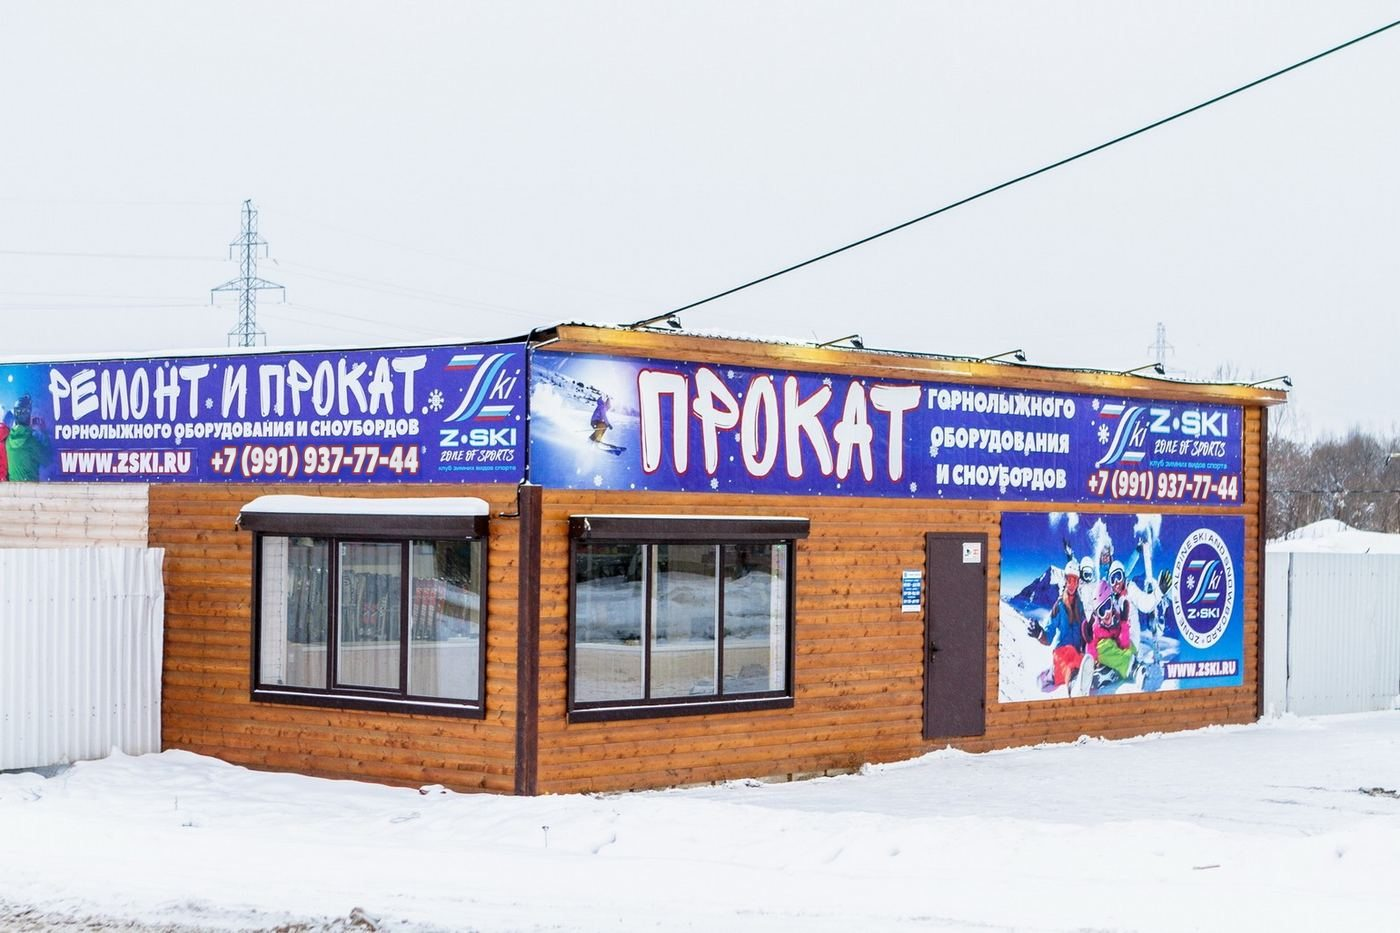
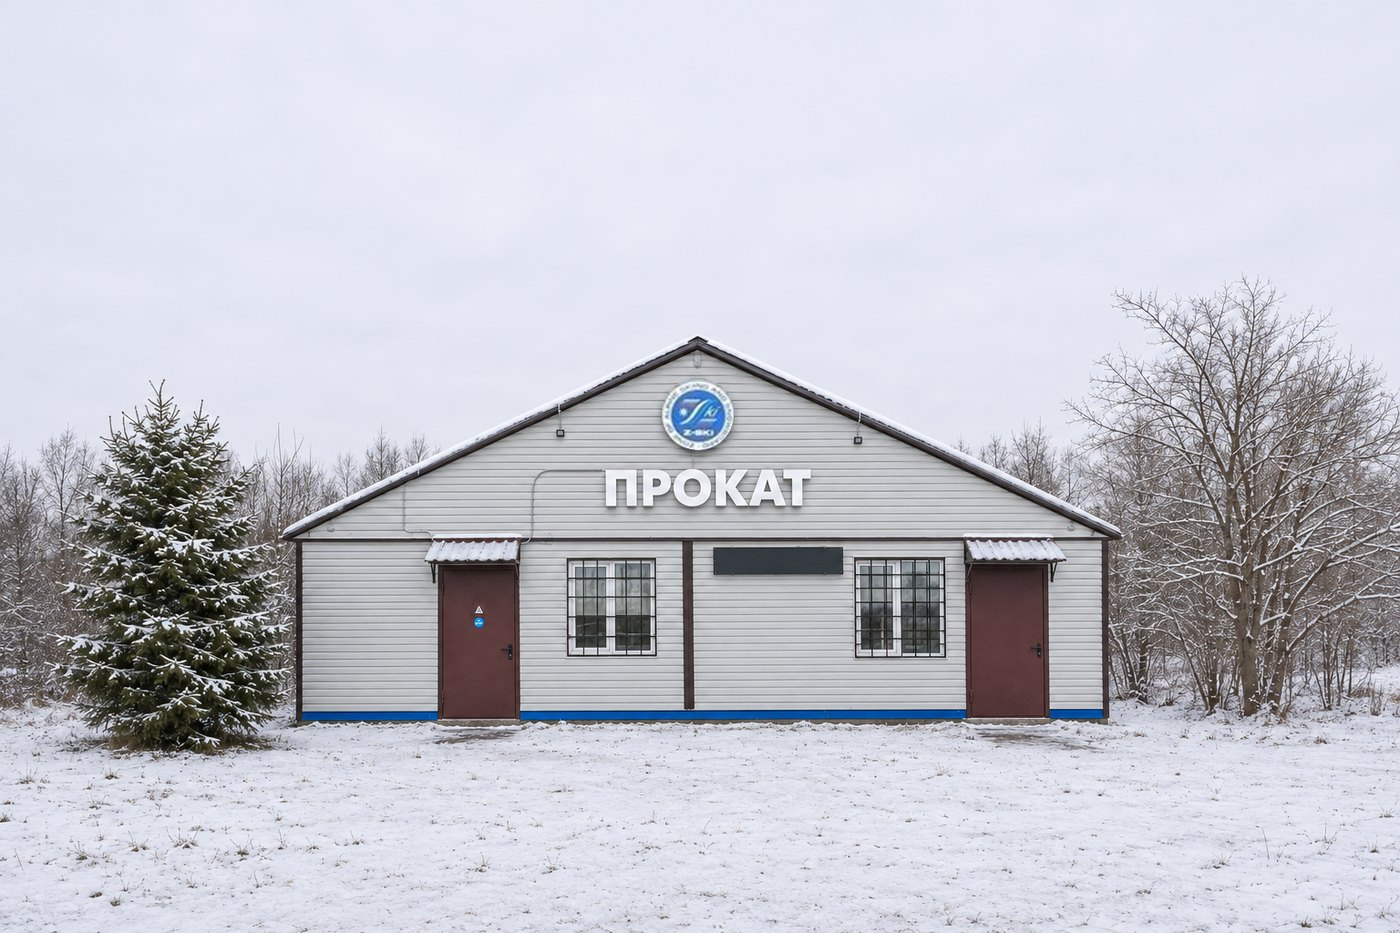
fix: Replace old rental facade with the new winter photo

diff --git a/index.html b/index.html
@@ -609,7 +609,7 @@ img[data-fallback].ok,img[data-fallback].failed{opacity:1}
   "url": "https://zski.ru/",
   "telephone": "+79919377744",
   "email": "z_ski@mail.ru",
-  "image": "https://zski.ru/img/photos/shop-exterior.jpg",
+  "image": "https://daydrneg1974-star.github.io/zski-site/img/photos/shop-exterior.jpg?v=202611171328",
   "priceRange": "Аксессуары от 500 ₽/день, комплекты от 2000 ₽/день",
   "address": {"@type": "PostalAddress","addressRegion": "Московская область","addressCountry": "RU"},
   "description": "Московская область, Дмитровский муниципальный округ, рядом с СНТ Каменка.",
@@ -630,7 +630,7 @@ window.__zskiIntro={show:show,restore:show&&type==="back_forward"?s.p:null};
 /* Скрипт интро не загрузился или упал — сразу показываем сайт */
 window.__zskiIntroFail=function(){var h=document.querySelector(".intro-host");if(h)h.hidden=true;d.classList.remove("intro-open");dispatchEvent(new Event("zski:intro-closed"))};
 var l=document.createElement("link");l.rel="preload";l.as="image";l.type="image/webp";l.href=show?(matchMedia("(orientation: portrait)").matches?"img/photos/intro-poster-portrait.webp":"img/photos/intro-poster.webp"):"img/photos/hero-freeride.webp";l.setAttribute("fetchpriority","high");document.head.appendChild(l);
-if(show){var j=document.createElement("link");j.rel="preload";j.as="script";j.href="js/intro.js?v=202611170601";document.head.appendChild(j)}
+if(show){var j=document.createElement("link");j.rel="preload";j.as="script";j.href="js/intro.js?v=202611171328";document.head.appendChild(j)}
 if(show){d.classList.add("intro-open");setTimeout(function(){if(!(window.__zskiIntro&&window.__zskiIntro.booted)){d.classList.remove("intro-open");dispatchEvent(new Event("zski:intro-closed"))}},8000)}})();
 </script>
 <style>html.intro-open,html.intro-open body{background:#1a2230;overflow:hidden}html.intro-open body>:not(.intro-host){display:none!important}.intro-host{position:fixed;inset:0;z-index:5000;transition:opacity .4s ease}.intro-host[hidden]{display:none}html.intro-open .intro-host[hidden]{display:block}.intro-host.closing{opacity:0;pointer-events:none}</style>
@@ -801,14 +801,14 @@ body.pov .lens,.stage.pov .lens{display:block}
     <img id="poster" src="img/photos/intro-poster.webp" alt="" fetchpriority="high">
   </picture>
   <video id="v" muted playsinline preload="none" aria-label="Видео: горнолыжник спускается по склону">
-    <source media="(orientation: portrait)" src="video/portrait/descent.webm?v=202611170601" type='video/webm; codecs="vp9"'>
-    <source media="(orientation: portrait)" src="video/portrait/descent.mp4?v=202611170601" type="video/mp4">
-    <source src="video/descent.webm?v=202611170601" type='video/webm; codecs="vp9"'>
-    <source src="video/descent.mp4?v=202611170601" type="video/mp4">
+    <source media="(orientation: portrait)" src="video/portrait/descent.webm?v=202611171328" type='video/webm; codecs="vp9"'>
+    <source media="(orientation: portrait)" src="video/portrait/descent.mp4?v=202611171328" type="video/mp4">
+    <source src="video/descent.webm?v=202611171328" type='video/webm; codecs="vp9"'>
+    <source src="video/descent.mp4?v=202611171328" type="video/mp4">
   </video>
   <div class="arrival" aria-hidden="true">
     <div class="arrival-scene">
-      <img id="arrival-photo" data-src="img/photos/shop-exterior.webp?v=202611170601" alt="" decoding="async">
+      <img id="arrival-photo" data-src="img/photos/shop-exterior.webp?v=202611171328" alt="" decoding="async">
       <span class="arrival-sign">Z-SKI</span>
     </div>
   </div>
@@ -1001,7 +1001,7 @@ body.pov .lens,.stage.pov .lens{display:block}
 <section class="section" style="padding-top:0">
   <div class="wrap">
     <div class="about">
-      <div class="photo" data-ph><picture><source srcset="img/photos/shop-exterior.webp?v=202611170601" type="image/webp"><img src="img/photos/shop-exterior.jpg?v=202611170601" alt="Павильон проката ZSKI" loading="lazy" decoding="async" data-fallback ></picture></div>
+      <div class="photo" data-ph><picture><source srcset="img/photos/shop-exterior.webp?v=202611171328" type="image/webp"><img src="img/photos/shop-exterior.jpg?v=202611171328" alt="Павильон проката ZSKI" loading="lazy" decoding="async" data-fallback ></picture></div>
       <div>
         <span class="eyebrow">О нашем клубе</span>
         <h2>Более 5 лет в прокате и сервисе</h2>
@@ -1176,7 +1176,7 @@ body.pov .lens,.stage.pov .lens{display:block}
 
 
 <!-- Слой интро «спуск к прокату» вставляется сборкой в начало <body> (intro: yes), см. js/intro.js -->
-<script src="js/intro.js?v=202611170601" defer onerror="window.__zskiIntroFail&&__zskiIntroFail()"></script>
+<script src="js/intro.js?v=202611171328" defer onerror="window.__zskiIntroFail&&__zskiIntroFail()"></script>
 
 </main>
 <footer>
@@ -1208,10 +1208,10 @@ body.pov .lens,.stage.pov .lens{display:block}
   <a class="btn btn-primary" data-phone="link" href="tel:+79919377744"><svg viewBox="0 0 24 24" fill="none" stroke="currentColor" stroke-width="2" stroke-linecap="round" stroke-linejoin="round"><path d="M22 16.9v3a2 2 0 0 1-2.2 2 19.8 19.8 0 0 1-8.6-3.1 19.5 19.5 0 0 1-6-6A19.8 19.8 0 0 1 2.1 4.2 2 2 0 0 1 4.1 2h3a2 2 0 0 1 2 1.7c.1.9.4 1.8.7 2.7a2 2 0 0 1-.5 2.1L8 9.8a16 16 0 0 0 6 6l1.3-1.3a2 2 0 0 1 2.1-.4c.9.3 1.8.6 2.7.7a2 2 0 0 1 1.9 2z"/></svg> Позвонить</a>
   <a class="btn btn-ghost" href="prices.html#calc"><svg viewBox="0 0 24 24" fill="none" stroke="currentColor" stroke-width="2" stroke-linecap="round"><rect x="4" y="2" width="16" height="20" rx="2"/><path d="M8 6h8M8 10h2M12 10h2M16 10h0M8 14h2M12 14h2M16 14v4M8 18h2M12 18h2"/></svg> Рассчитать</a>
 </div>
-<script src="js/data.js?v=202611170601" defer></script>
-<script src="js/hours.js?v=202611170601" defer></script>
-<script src="js/drive-links.js?v=202611170601" defer></script>
-<script src="js/main.js?v=202611170601" defer></script>
+<script src="js/data.js?v=202611171328" defer></script>
+<script src="js/hours.js?v=202611171328" defer></script>
+<script src="js/drive-links.js?v=202611171328" defer></script>
+<script src="js/main.js?v=202611171328" defer></script>
 <script>if("serviceWorker"in navigator)addEventListener("load",()=>{navigator.serviceWorker.register("sw.js").then((r)=>r.update()).catch(()=>{});});</script>
 </body>
 </html>

diff --git a/contacts.html b/contacts.html
@@ -17,8 +17,8 @@
 <link rel="apple-touch-icon" href="img/apple-touch-icon.png">
 <link rel="preload" href="fonts/unbounded-800-cyrillic.woff2" as="font" type="font/woff2" crossorigin>
 <link rel="preload" href="fonts/manrope-500-cyrillic.woff2" as="font" type="font/woff2" crossorigin>
-<link rel="stylesheet" href="fonts/fonts.css?v=202611170601">
-<link rel="stylesheet" href="css/style.css?v=202611170601">
+<link rel="stylesheet" href="fonts/fonts.css?v=202611171328">
+<link rel="stylesheet" href="css/style.css?v=202611171328">
 <meta name="view-transition" content="same-origin">
 <script type="speculationrules">{"prerender":[{"source":"document","where":{"href_matches":"/*.html"},"eagerness":"moderate"}]}</script>
 <script type="application/ld+json">
@@ -29,7 +29,7 @@
   "url": "https://zski.ru/",
   "telephone": "+79919377744",
   "email": "z_ski@mail.ru",
-  "image": "https://zski.ru/img/photos/shop-exterior.jpg",
+  "image": "https://daydrneg1974-star.github.io/zski-site/img/photos/shop-exterior.jpg?v=202611171328",
   "priceRange": "Аксессуары от 500 ₽/день, комплекты от 2000 ₽/день",
   "address": {"@type": "PostalAddress","addressRegion": "Московская область","addressCountry": "RU"},
   "description": "Московская область, Дмитровский муниципальный округ, рядом с СНТ Каменка.",
@@ -180,10 +180,10 @@
   <a class="btn btn-primary" data-phone="link" href="tel:+79919377744"><svg viewBox="0 0 24 24" fill="none" stroke="currentColor" stroke-width="2" stroke-linecap="round" stroke-linejoin="round"><path d="M22 16.9v3a2 2 0 0 1-2.2 2 19.8 19.8 0 0 1-8.6-3.1 19.5 19.5 0 0 1-6-6A19.8 19.8 0 0 1 2.1 4.2 2 2 0 0 1 4.1 2h3a2 2 0 0 1 2 1.7c.1.9.4 1.8.7 2.7a2 2 0 0 1-.5 2.1L8 9.8a16 16 0 0 0 6 6l1.3-1.3a2 2 0 0 1 2.1-.4c.9.3 1.8.6 2.7.7a2 2 0 0 1 1.9 2z"/></svg> Позвонить</a>
   <a class="btn btn-ghost" href="prices.html#calc"><svg viewBox="0 0 24 24" fill="none" stroke="currentColor" stroke-width="2" stroke-linecap="round"><rect x="4" y="2" width="16" height="20" rx="2"/><path d="M8 6h8M8 10h2M12 10h2M16 10h0M8 14h2M12 14h2M16 14v4M8 18h2M12 18h2"/></svg> Рассчитать</a>
 </div>
-<script src="js/data.js?v=202611170601" defer></script>
-<script src="js/hours.js?v=202611170601" defer></script>
-<script src="js/drive-links.js?v=202611170601" defer></script>
-<script src="js/main.js?v=202611170601" defer></script>
+<script src="js/data.js?v=202611171328" defer></script>
+<script src="js/hours.js?v=202611171328" defer></script>
+<script src="js/drive-links.js?v=202611171328" defer></script>
+<script src="js/main.js?v=202611171328" defer></script>
 <script>if("serviceWorker"in navigator)addEventListener("load",()=>{navigator.serviceWorker.register("sw.js").then((r)=>r.update()).catch(()=>{});});</script>
 </body>
 </html>

diff --git a/intro.html b/intro.html
@@ -10,8 +10,8 @@
 <link rel="icon" href="img/favicon-64.png" type="image/png">
 <link rel="preload" href="fonts/unbounded-800-cyrillic.woff2" as="font" type="font/woff2" crossorigin>
 <link rel="preload" href="fonts/manrope-700-cyrillic.woff2" as="font" type="font/woff2" crossorigin>
-<link rel="stylesheet" href="fonts/fonts.css?v=202611170601">
-<link rel="stylesheet" href="css/intro.css?v=202611170601">
+<link rel="stylesheet" href="fonts/fonts.css?v=202611171328">
+<link rel="stylesheet" href="css/intro.css?v=202611171328">
 </head>
 <body>
 <div class="stage waiting">
@@ -20,14 +20,14 @@
     <img id="poster" src="img/photos/intro-poster.webp" alt="" fetchpriority="high">
   </picture>
   <video id="v" muted playsinline preload="none" aria-label="Видео: горнолыжник спускается по склону">
-    <source media="(orientation: portrait)" src="video/portrait/descent.webm?v=202611170601" type='video/webm; codecs="vp9"'>
-    <source media="(orientation: portrait)" src="video/portrait/descent.mp4?v=202611170601" type="video/mp4">
-    <source src="video/descent.webm?v=202611170601" type='video/webm; codecs="vp9"'>
-    <source src="video/descent.mp4?v=202611170601" type="video/mp4">
+    <source media="(orientation: portrait)" src="video/portrait/descent.webm?v=202611171328" type='video/webm; codecs="vp9"'>
+    <source media="(orientation: portrait)" src="video/portrait/descent.mp4?v=202611171328" type="video/mp4">
+    <source src="video/descent.webm?v=202611171328" type='video/webm; codecs="vp9"'>
+    <source src="video/descent.mp4?v=202611171328" type="video/mp4">
   </video>
   <div class="arrival" aria-hidden="true">
     <div class="arrival-scene">
-      <img id="arrival-photo" data-src="img/photos/shop-exterior.webp?v=202611170601" alt="" decoding="async">
+      <img id="arrival-photo" data-src="img/photos/shop-exterior.webp?v=202611171328" alt="" decoding="async">
       <span class="arrival-sign">Z-SKI</span>
     </div>
   </div>
@@ -95,9 +95,9 @@
 </div>
 <div class="fade" id="fade"></div>
 <noscript><div style="position:fixed;inset:0;display:grid;place-items:center;background:#1a2230"><a href="index.html" style="color:#fff">Перейти на сайт →</a></div></noscript>
-<script src="js/data.js?v=202611170601" defer></script>
-<script src="js/hours.js?v=202611170601" defer></script>
-<script src="js/drive-links.js?v=202611170601" defer></script>
-<script src="js/intro.js?v=202611170601"></script>
+<script src="js/data.js?v=202611171328" defer></script>
+<script src="js/hours.js?v=202611171328" defer></script>
+<script src="js/drive-links.js?v=202611171328" defer></script>
+<script src="js/intro.js?v=202611171328"></script>
 </body>
 </html>

diff --git a/prices.html b/prices.html
@@ -17,8 +17,8 @@
 <link rel="apple-touch-icon" href="img/apple-touch-icon.png">
 <link rel="preload" href="fonts/unbounded-800-cyrillic.woff2" as="font" type="font/woff2" crossorigin>
 <link rel="preload" href="fonts/manrope-500-cyrillic.woff2" as="font" type="font/woff2" crossorigin>
-<link rel="stylesheet" href="fonts/fonts.css?v=202611170601">
-<link rel="stylesheet" href="css/style.css?v=202611170601">
+<link rel="stylesheet" href="fonts/fonts.css?v=202611171328">
+<link rel="stylesheet" href="css/style.css?v=202611171328">
 <meta name="view-transition" content="same-origin">
 <script type="speculationrules">{"prerender":[{"source":"document","where":{"href_matches":"/*.html"},"eagerness":"moderate"}]}</script>
 
@@ -151,10 +151,10 @@
   <a class="btn btn-primary" data-phone="link" href="tel:+79919377744"><svg viewBox="0 0 24 24" fill="none" stroke="currentColor" stroke-width="2" stroke-linecap="round" stroke-linejoin="round"><path d="M22 16.9v3a2 2 0 0 1-2.2 2 19.8 19.8 0 0 1-8.6-3.1 19.5 19.5 0 0 1-6-6A19.8 19.8 0 0 1 2.1 4.2 2 2 0 0 1 4.1 2h3a2 2 0 0 1 2 1.7c.1.9.4 1.8.7 2.7a2 2 0 0 1-.5 2.1L8 9.8a16 16 0 0 0 6 6l1.3-1.3a2 2 0 0 1 2.1-.4c.9.3 1.8.6 2.7.7a2 2 0 0 1 1.9 2z"/></svg> Позвонить</a>
   <a class="btn btn-ghost" href="prices.html#calc"><svg viewBox="0 0 24 24" fill="none" stroke="currentColor" stroke-width="2" stroke-linecap="round"><rect x="4" y="2" width="16" height="20" rx="2"/><path d="M8 6h8M8 10h2M12 10h2M16 10h0M8 14h2M12 14h2M16 14v4M8 18h2M12 18h2"/></svg> Рассчитать</a>
 </div>
-<script src="js/data.js?v=202611170601" defer></script>
-<script src="js/hours.js?v=202611170601" defer></script>
-<script src="js/drive-links.js?v=202611170601" defer></script>
-<script src="js/main.js?v=202611170601" defer></script>
+<script src="js/data.js?v=202611171328" defer></script>
+<script src="js/hours.js?v=202611171328" defer></script>
+<script src="js/drive-links.js?v=202611171328" defer></script>
+<script src="js/main.js?v=202611171328" defer></script>
 <script>if("serviceWorker"in navigator)addEventListener("load",()=>{navigator.serviceWorker.register("sw.js").then((r)=>r.update()).catch(()=>{});});</script>
 </body>
 </html>

diff --git a/service.html b/service.html
@@ -17,8 +17,8 @@
 <link rel="apple-touch-icon" href="img/apple-touch-icon.png">
 <link rel="preload" href="fonts/unbounded-800-cyrillic.woff2" as="font" type="font/woff2" crossorigin>
 <link rel="preload" href="fonts/manrope-500-cyrillic.woff2" as="font" type="font/woff2" crossorigin>
-<link rel="stylesheet" href="fonts/fonts.css?v=202611170601">
-<link rel="stylesheet" href="css/style.css?v=202611170601">
+<link rel="stylesheet" href="fonts/fonts.css?v=202611171328">
+<link rel="stylesheet" href="css/style.css?v=202611171328">
 <meta name="view-transition" content="same-origin">
 <script type="speculationrules">{"prerender":[{"source":"document","where":{"href_matches":"/*.html"},"eagerness":"moderate"}]}</script>
 
@@ -148,10 +148,10 @@
   <a class="btn btn-primary" data-phone="link" href="tel:+79919377744"><svg viewBox="0 0 24 24" fill="none" stroke="currentColor" stroke-width="2" stroke-linecap="round" stroke-linejoin="round"><path d="M22 16.9v3a2 2 0 0 1-2.2 2 19.8 19.8 0 0 1-8.6-3.1 19.5 19.5 0 0 1-6-6A19.8 19.8 0 0 1 2.1 4.2 2 2 0 0 1 4.1 2h3a2 2 0 0 1 2 1.7c.1.9.4 1.8.7 2.7a2 2 0 0 1-.5 2.1L8 9.8a16 16 0 0 0 6 6l1.3-1.3a2 2 0 0 1 2.1-.4c.9.3 1.8.6 2.7.7a2 2 0 0 1 1.9 2z"/></svg> Позвонить</a>
   <a class="btn btn-ghost" href="prices.html#calc"><svg viewBox="0 0 24 24" fill="none" stroke="currentColor" stroke-width="2" stroke-linecap="round"><rect x="4" y="2" width="16" height="20" rx="2"/><path d="M8 6h8M8 10h2M12 10h2M16 10h0M8 14h2M12 14h2M16 14v4M8 18h2M12 18h2"/></svg> Рассчитать</a>
 </div>
-<script src="js/data.js?v=202611170601" defer></script>
-<script src="js/hours.js?v=202611170601" defer></script>
-<script src="js/drive-links.js?v=202611170601" defer></script>
-<script src="js/main.js?v=202611170601" defer></script>
+<script src="js/data.js?v=202611171328" defer></script>
+<script src="js/hours.js?v=202611171328" defer></script>
+<script src="js/drive-links.js?v=202611171328" defer></script>
+<script src="js/main.js?v=202611171328" defer></script>
 <script>if("serviceWorker"in navigator)addEventListener("load",()=>{navigator.serviceWorker.register("sw.js").then((r)=>r.update()).catch(()=>{});});</script>
 </body>
 </html>

diff --git a/slopes.html b/slopes.html
@@ -17,8 +17,8 @@
 <link rel="apple-touch-icon" href="img/apple-touch-icon.png">
 <link rel="preload" href="fonts/unbounded-800-cyrillic.woff2" as="font" type="font/woff2" crossorigin>
 <link rel="preload" href="fonts/manrope-500-cyrillic.woff2" as="font" type="font/woff2" crossorigin>
-<link rel="stylesheet" href="fonts/fonts.css?v=202611170601">
-<link rel="stylesheet" href="css/style.css?v=202611170601">
+<link rel="stylesheet" href="fonts/fonts.css?v=202611171328">
+<link rel="stylesheet" href="css/style.css?v=202611171328">
 <meta name="view-transition" content="same-origin">
 <script type="speculationrules">{"prerender":[{"source":"document","where":{"href_matches":"/*.html"},"eagerness":"moderate"}]}</script>
 
@@ -207,10 +207,10 @@
   <a class="btn btn-primary" data-phone="link" href="tel:+79919377744"><svg viewBox="0 0 24 24" fill="none" stroke="currentColor" stroke-width="2" stroke-linecap="round" stroke-linejoin="round"><path d="M22 16.9v3a2 2 0 0 1-2.2 2 19.8 19.8 0 0 1-8.6-3.1 19.5 19.5 0 0 1-6-6A19.8 19.8 0 0 1 2.1 4.2 2 2 0 0 1 4.1 2h3a2 2 0 0 1 2 1.7c.1.9.4 1.8.7 2.7a2 2 0 0 1-.5 2.1L8 9.8a16 16 0 0 0 6 6l1.3-1.3a2 2 0 0 1 2.1-.4c.9.3 1.8.6 2.7.7a2 2 0 0 1 1.9 2z"/></svg> Позвонить</a>
   <a class="btn btn-ghost" href="prices.html#calc"><svg viewBox="0 0 24 24" fill="none" stroke="currentColor" stroke-width="2" stroke-linecap="round"><rect x="4" y="2" width="16" height="20" rx="2"/><path d="M8 6h8M8 10h2M12 10h2M16 10h0M8 14h2M12 14h2M16 14v4M8 18h2M12 18h2"/></svg> Рассчитать</a>
 </div>
-<script src="js/data.js?v=202611170601" defer></script>
-<script src="js/hours.js?v=202611170601" defer></script>
-<script src="js/drive-links.js?v=202611170601" defer></script>
-<script src="js/main.js?v=202611170601" defer></script>
+<script src="js/data.js?v=202611171328" defer></script>
+<script src="js/hours.js?v=202611171328" defer></script>
+<script src="js/drive-links.js?v=202611171328" defer></script>
+<script src="js/main.js?v=202611171328" defer></script>
 <script>if("serviceWorker"in navigator)addEventListener("load",()=>{navigator.serviceWorker.register("sw.js").then((r)=>r.update()).catch(()=>{});});</script>
 </body>
 </html>

diff --git a/sw.js b/sw.js
@@ -7,7 +7,7 @@
    Новая версия воркера просто начинает отвечать на следующие запросы — страницу не перезагружаем:
    HTML и так приходит из сети, а у CSS/JS в адресе новая версия сборки.
    VERSION подставляется при сборке, старые кэши ZSKI удаляются. */
-const VERSION = "zski-202611170601";
+const VERSION = "zski-202611171328";
 const IMMUTABLE = /\.(woff2|webp|jpg|png|svg)$/;
 self.addEventListener("install", () => self.skipWaiting());
 self.addEventListener("activate", (e) => {

diff --git a/src/layout/schema.html b/src/layout/schema.html
@@ -6,7 +6,7 @@
   "url": "https://zski.ru/",
   "telephone": "+79919377744",
   "email": "z_ski@mail.ru",
-  "image": "https://zski.ru/img/photos/shop-exterior.jpg",
+  "image": "https://daydrneg1974-star.github.io/zski-site/img/photos/shop-exterior.jpg?v={{BUILD}}",
   "priceRange": "Аксессуары от 500 ₽/день, комплекты от 2000 ₽/день",
   "address": {"@type": "PostalAddress","addressRegion": "Московская область","addressCountry": "RU"},
   "description": "Московская область, Дмитровский муниципальный округ, рядом с СНТ Каменка.",
